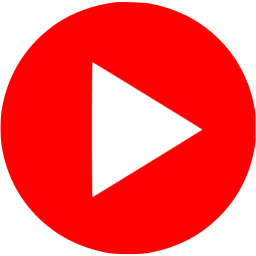
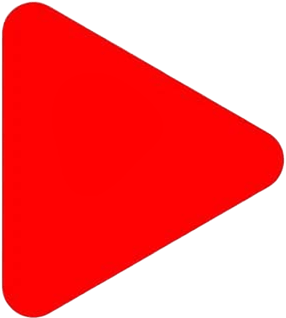
Fixed projects in home -changed images of reels and promos categ -changed play ic

diff --git a/src/components/ProjectCard.tsx b/src/components/ProjectCard.tsx
@@ -3,15 +3,16 @@ import { useState } from "react";
 import { IProject } from "../types/Index";
 import { useTranslation } from "react-i18next";
 import Image from "./shared/Image";
-import youtubeIcon from "../assets/play.png"; // 🔁 ضع أيقونة يوتيوب هنا
+import youtubeIcon from "../assets/play.png";
 
 interface ProjectCardProps {
   project: IProject;
   index: number;
   aspect?: boolean;
+  isReel?: boolean;
 }
 
-export const ProjectCard = ({ project, index, aspect = true }: ProjectCardProps) => {
+export const ProjectCard = ({ project, index, aspect = true, isReel }: ProjectCardProps) => {
   const { i18n } = useTranslation();
   const isAr = i18n.language === "ar";
   const [isOpen, setIsOpen] = useState(false);
@@ -42,7 +43,7 @@ export const ProjectCard = ({ project, index, aspect = true }: ProjectCardProps)
       >
         {/* Thumbnail with YouTube Icon Button */}
         <div
-          className={`relative !bg-green-300 ${aspect ? "aspect-video" : "h-[50vh] xl:h-[70vh] "} lg:rounded-t-2xl overflow-hidden`}
+          className={`relative  ${aspect ? "aspect-video" : "h-[50vh] xl:h-[70vh] "} lg:rounded-t-2xl overflow-hidden`}
         >
           <Image
             src={project.thumbnail_url}
@@ -53,17 +54,17 @@ export const ProjectCard = ({ project, index, aspect = true }: ProjectCardProps)
           {/* YouTube Button */}
           <button
             onClick={() => setIsOpen(true)}
-            className="absolute top-2 right-2 bg-black/60 p-2 rounded-full hover:scale-105 transition"
+            className="absolute top-2 lg:top-4 right-2 lg:right-4  p-2 rounded-full hover:scale-105 transition animate-pulse"
             title="Play Video"
           >
-            <img src={youtubeIcon} alt="YouTube" className="size-12 lg:size-20" />
+            <Image src={youtubeIcon} alt="YouTube" className="w-12 lg:w-14 " />
           </button>
         </div>
 
         {/* Title */}
         <div className="p-4 lg:p-6 transition-all group-hover:bg-main-color/70">
-          <div className="block text-xl lg:text-2xl font-bold text-white">
-            <span className="inline-block w-2 h-2 mx-2 bg-primary-500 rounded-full"></span>
+          <div className="block text-xl lg:text-4xl font-bold text-white line-clamp-1">
+            <span className="inline-block w-2 h-2 mx-2 bg-primary-500 rounded-full "></span>
             {isAr ? project.titleAr : project.titleEn}
           </div>
         </div>
@@ -80,7 +81,8 @@ export const ProjectCard = ({ project, index, aspect = true }: ProjectCardProps)
             onClick={() => setIsOpen(false)}
           >
             <motion.div
-              className={`relative w-full max-w-3xl ${aspect ? "aspect-video" : "h-[80vh]"} bg-black`}
+              className={`relative w-full  ${aspect ? "aspect-video max-w-6xl" : "h-[80vh]"} ${isReel && isReel ? "aspect-video max-w-4xl" : "h-[80vh]"} bg-black`}
+
               initial={{ scale: 0.8 }}
               animate={{ scale: 1 }}
               exit={{ scale: 0.8 }}

diff --git a/src/components/Projects.tsx b/src/components/Projects.tsx
@@ -15,7 +15,7 @@ export default function Projects() {
   const [loading, setLoading] = useState(true);
   const [error, setError] = useState<string | null>(null);
 
-
+console.log(projects)
 
   useEffect(() => {
     const fetchProjects = async () => {
@@ -39,7 +39,6 @@ export default function Projects() {
 
     fetchProjects();
   }, []);
-
   if (loading) {
     return (
       <section className="py-16 md:py-24">
@@ -85,22 +84,13 @@ export default function Projects() {
           whileInView={{ opacity: 1 }}
           viewport={{ once: true }}
         >
-          {projects.length > 0 && (
-            <div className="">
-              <ProjectCard
-                key={0}
-                project={projects[0]}
-                aspect={true}
-                index={0}
-              />
-            </div>
-          )}
-          <div className="grid grid-cols-1 md:grid-cols-2 gap-4">
-            {projects.slice(1, 3).map((project, index) => (
+          <div className="grid grid-cols-1 md:grid-cols-2 lg:grid-cols-3 gap-4">
+            {projects.slice(0, 3).map((project, index) => (
               <ProjectCard
                 key={index + 1}
                 project={project}
                 index={index + 1}
+                isReel={project.isReel}
               />
             ))}
           </div>
@@ -119,11 +109,10 @@ export default function Projects() {
           >
             {t("projects.loadMore")}
             <ArrowRight
-              className={`h-5 w-5 transform transition-transform ${
-                isAr
-                  ? "scale-x-[-1] group-hover:-translate-x-2"
-                  : "group-hover:translate-x-2"
-              }`}
+              className={`h-5 w-5 transform transition-transform ${isAr
+                ? "scale-x-[-1] group-hover:-translate-x-2"
+                : "group-hover:translate-x-2"
+                }`}
             />
           </Link>
         </motion.div>

diff --git a/src/pages/Portfolio/CategoriesPage.tsx b/src/pages/Portfolio/CategoriesPage.tsx
@@ -9,6 +9,7 @@ import { ProjectCard } from "../../components/ProjectCard";
 import Image from "../../components/shared/Image";
 import Pagination from "../../components/shared/Pagination";
 import Loader from "../../components/Loader";
+import BackBtn from "../../components/shared/BackBtn";
 
 type Category = {
   id: string;
@@ -41,7 +42,7 @@ const cardVariants = {
 
 const CategoriesPage = () => {
   const { isReel } = useParams(); // read /categories/:isReel
-  const { t, i18n } = useTranslation();
+  const { i18n } = useTranslation();
   const [categoryList, setCategoryList] = useState<Category[]>([]);
   const [projects, setProjects] = useState<Project[]>([]);
   const [loading, setLoading] = useState(true);
@@ -76,13 +77,7 @@ const CategoriesPage = () => {
     <div className="bg-neutral-900 min-h-screen py-32">
 
       <div className="container mx-auto px-4 space-y-10 ">
-        {/* Back Button */}
-        <Link
-          to={"/portfolio"}
-          className="mb-6 px-10 py-3 bg-main-color text-white font-medium rounded hover:bg-main-color/80 transition"
-        >
-          {t("back")}
-        </Link>
+        <BackBtn />
         <div className="grid grid-cols-1 sm:grid-cols-2 md:grid-cols-2 gap-6">
 
           {isReel === "promo"
@@ -114,7 +109,7 @@ const CategoriesPage = () => {
                     alt={i18n.language === "ar" ? cat.categoryAr : cat.category}
                     className="w-full h-64 object-cover"
                   />
-                  <div className="p-4 text-white text-center font-semibold">
+                  <div className="p-4 text-white text-center font-semibold text-2xl">
                     {i18n.language === "ar" ? cat.categoryAr : cat.category}
                   </div>
                 </Link>

diff --git a/src/pages/Portfolio/Portfolio.tsx b/src/pages/Portfolio/Portfolio.tsx
@@ -1,9 +1,12 @@
 import { Link } from "react-router-dom"; // If using React Router. Use `next/link` for Next.js
 import Image from "../../components/shared/Image";
-import reelImage from "../../assets/reel.webp";
-import promoImage from "../../assets/promo.png";
+import reelImage from "../../assets/reel.jpg";
+import promoImage from "../../assets/promo.jpg";
+import { useTranslation } from "react-i18next";
 
 const Portfolio = () => {
+  const { t } = useTranslation();
+
   return (
     <div className="bg-neutral-900 min-h-screen py-32">
       <div className="container mx-auto px-4">
@@ -16,10 +19,10 @@ const Portfolio = () => {
             <Image
               src={reelImage} // Replace with actual path
               alt="Reel"
-              className="w-full h-64 object-cover"
+              className="w-full h-64 lg:h-80 object-cover"
             />
             <div className="p-4 text-white text-center font-semibold text-2xl">
-              Reel
+              {t("reel")}
             </div>
           </Link>
 
@@ -31,10 +34,11 @@ const Portfolio = () => {
             <Image
               src={promoImage}// Replace with actual path
               alt="Promo"
-              className="w-full h-64 object-cover"
+              className="w-full h-64 lg:h-80 object-cover"
             />
             <div className="p-4 text-white text-center font-semibold text-2xl">
-              Promo
+            {t("promo")}
+
             </div>
           </Link>
         </div>

diff --git a/src/pages/Portfolio/CategoryVedios.tsx b/src/pages/Portfolio/CategoryVedios.tsx
@@ -1,11 +1,12 @@
 import { useEffect, useState } from "react";
-import { useParams, Link } from "react-router-dom";
 import { useTranslation } from "react-i18next";
+import { useParams } from "react-router-dom";
+import Loader from "../../components/Loader";
+import { ProjectCard } from "../../components/ProjectCard";
+import BackBtn from "../../components/shared/BackBtn";
+import Pagination from "../../components/shared/Pagination";
 import { getProjects } from "../../lib/subaMethods";
 import { IProject } from "../../types/Index";
-import { ProjectCard } from "../../components/ProjectCard";
-import Pagination from "../../components/shared/Pagination";
-import Loader from "../../components/Loader";
 
 const CategoryVideos = () => {
   const { id } = useParams();
@@ -44,12 +45,9 @@ const CategoryVideos = () => {
   return (
     <div className="bg-neutral-900 min-h-screen py-32">
       <div className="container mx-auto px-4 space-y-10">
-        <Link
-          to={"/portfolio/reel"}
-          className="mb-6 px-10 py-3 bg-main-color text-white font-medium rounded hover:bg-main-color/80 transition"
-        >
-          {t("back")}
-        </Link>
+      
+        <BackBtn slug="reel"/>
+
 
         <div className="grid grid-cols-1 sm:grid-cols-2 md:grid-cols-3 gap-6">
           {videos.map((video, i) => (

diff --git a/src/components/shared/BackBtn.tsx b/src/components/shared/BackBtn.tsx
@@ -1,0 +1,19 @@
+import { useTranslation } from "react-i18next";
+import { Link } from "react-router-dom";
+import { ArrowLeft } from "lucide-react"; // You can install lucide-react or use FontAwesome
+
+const BackBtn = ({ slug = "" }: { slug?: string }) => {
+  const { t } = useTranslation();
+
+  return (
+    <Link
+      to={`/portfolio/${slug}`}
+      className="group inline-flex items-center gap-2 px-6 py-3 mb-6 rounded-full bg-main-color text-white font-semibold shadow-md hover:bg-main-color/90 transition-all duration-300"
+    >
+      <ArrowLeft className="w-5 h-5 transition-transform duration-300 group-hover:-translate-x-1" />
+      <span>{t("back")}</span>
+    </Link>
+  );
+};
+
+export default BackBtn;

diff --git a/src/components/ScrollToTopBtn.tsx b/src/components/ScrollToTopBtn.tsx
@@ -29,7 +29,7 @@ const ScrollToTopBtn = () => {
 
   return (
     <button
-      className={`fixed bottom-8 right-8 z-50 p-3 rounded-full bg-main-color hover:bg-main-color/80 text-white transition-all duration-300 ${
+      className={`fixed bottom-8 right-8 z-48 p-3 rounded-full bg-main-color hover:bg-main-color/80 text-white transition-all duration-300 ${
         isVisible ? 'opacity-100 translate-y-0' : 'opacity-0 translate-y-16'
       }`}
       onClick={scrollToTop}

diff --git a/src/types/Index.ts b/src/types/Index.ts
@@ -3,5 +3,6 @@ export interface IProject {
     titleEn: string;
     link: string;
     thumbnail_url: string;
+    isReel?: boolean;
   }
   
